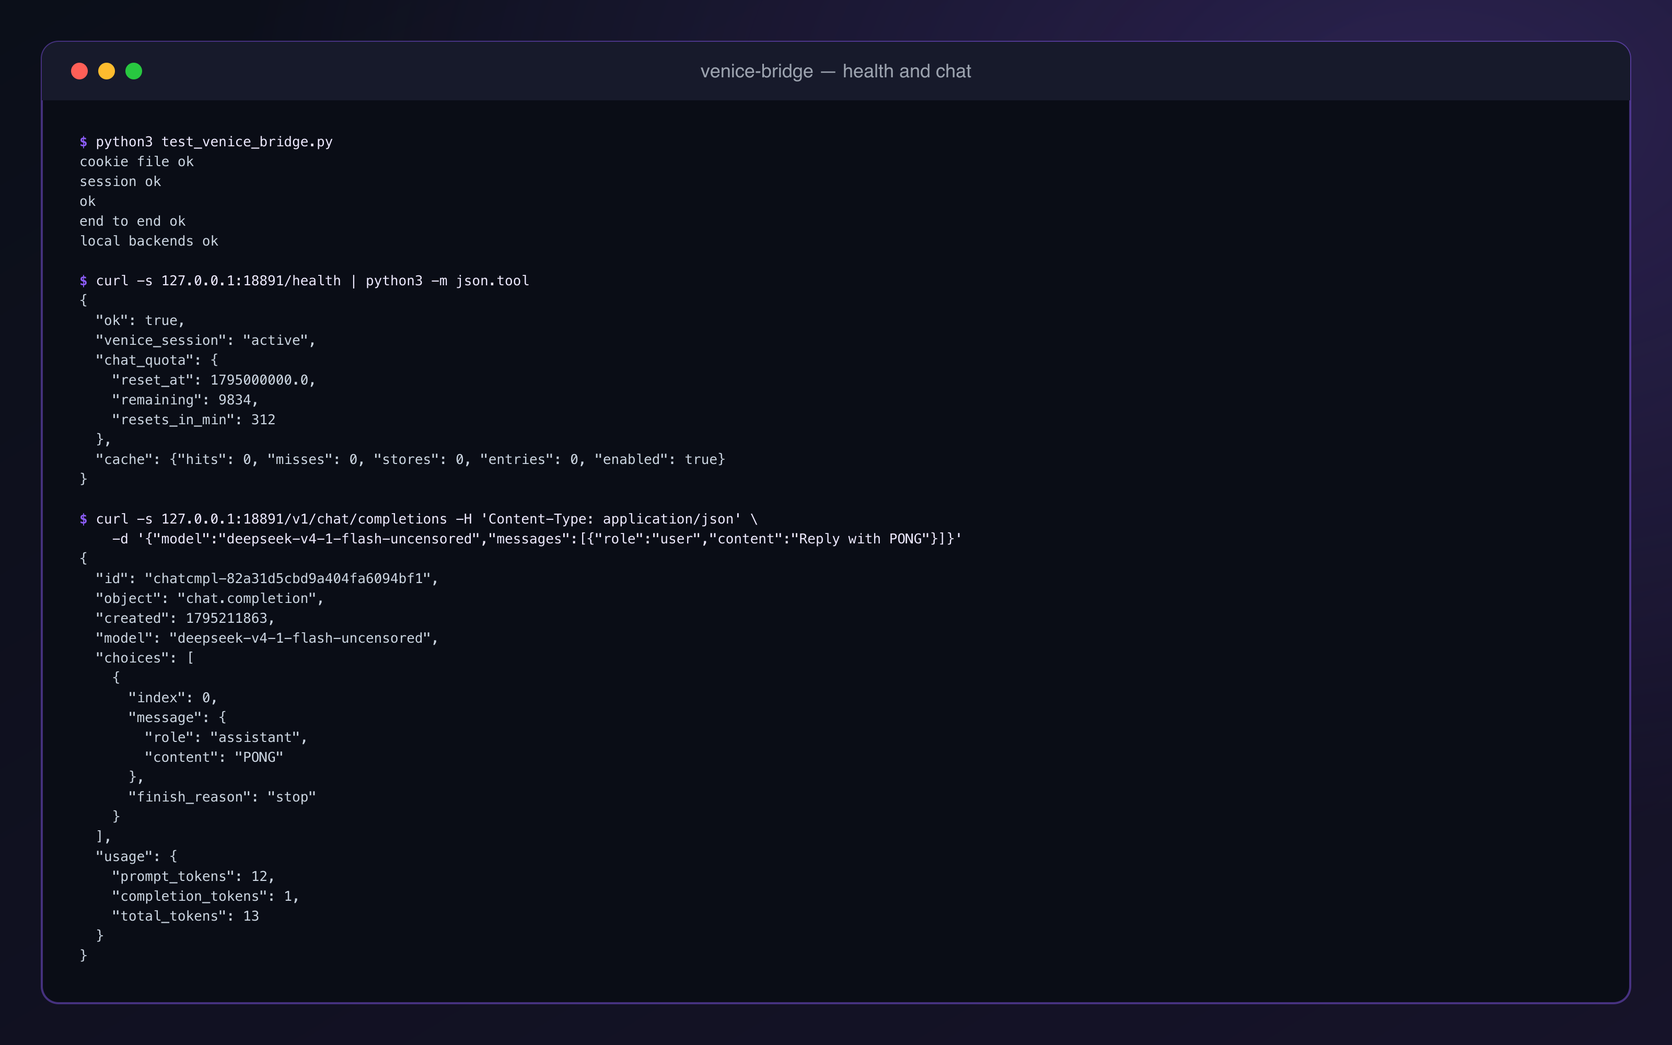
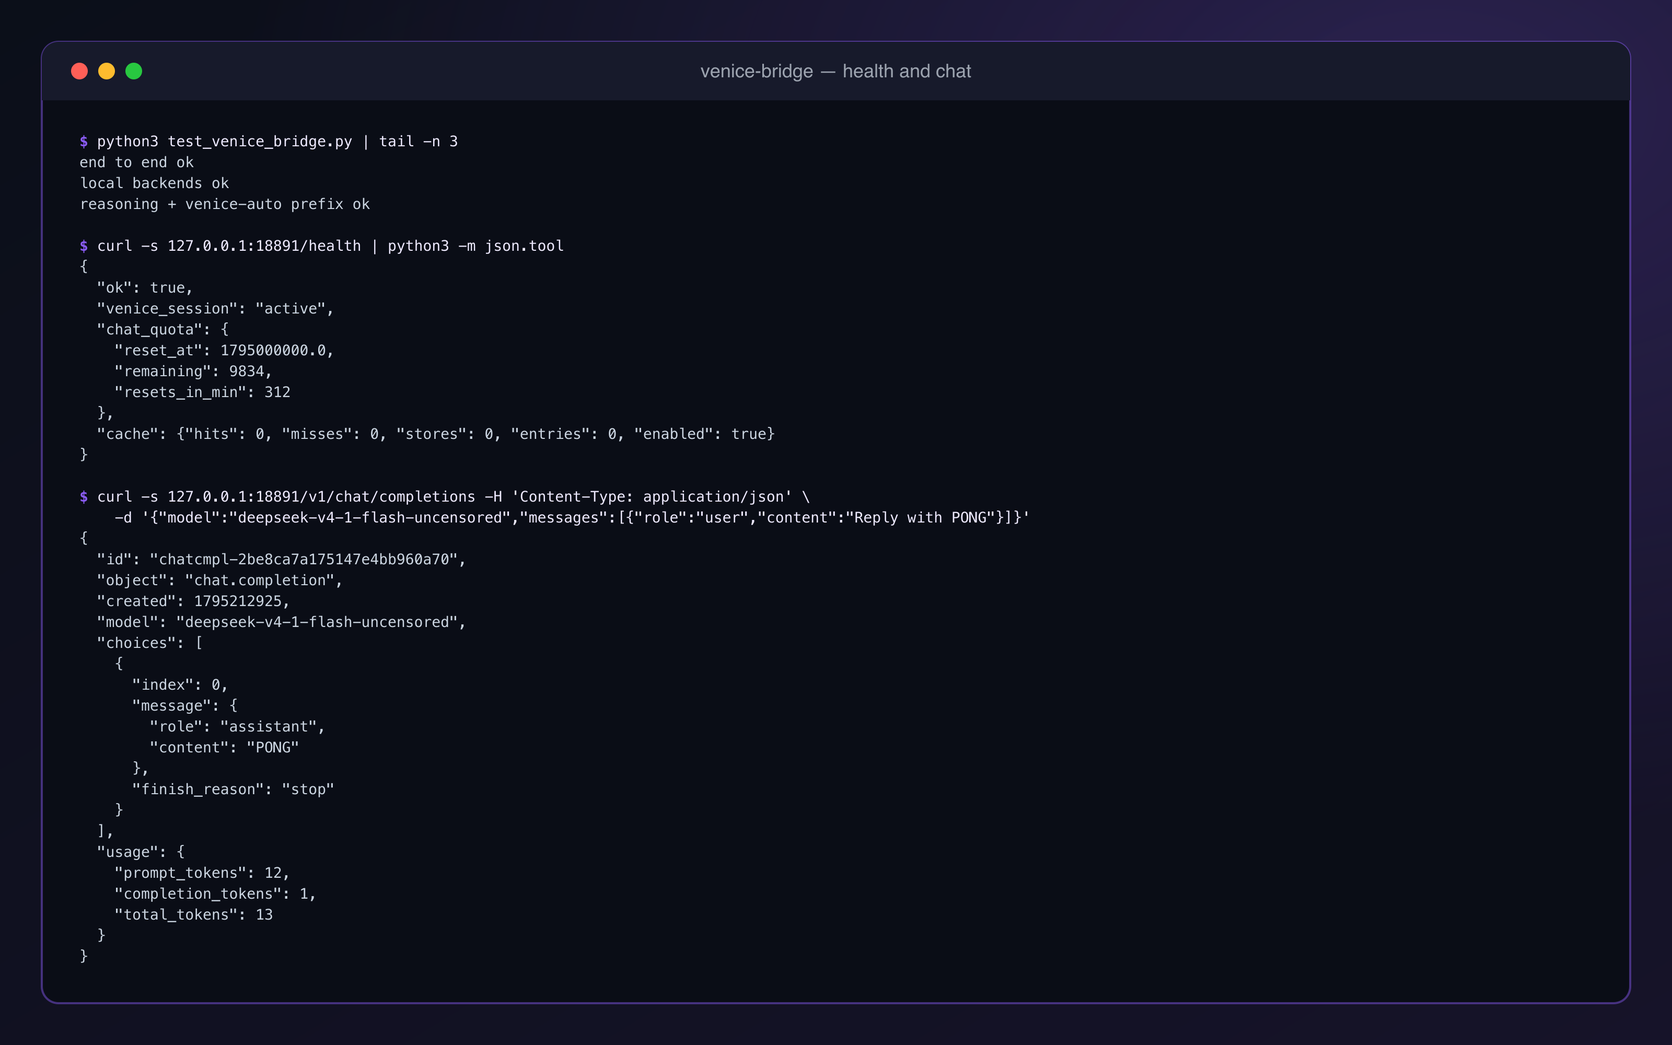
fix: local ids never fall back to Venice, no reasoning on tool requests, prefixed venice-auto
- adapter: a model id containing "/" (a local backend/model) is passed through unchanged, so a local model
  asked from Claude Code or Codex reaches its backend or fails with 502 instead of going to Venice
- bridge: reasoning_effort no longer turns reasoning on when the request declares tools (avoids the
  reasoning_content HTTP 400 in agent loops)
- bridge: venice-bridge/venice-auto resolves like venice-auto
- tests for all three; docs, screenshots and llms-full updated

diff --git a/docs/index.html b/docs/index.html
@@ -450,8 +450,8 @@ python3 venice_bridge.py --host 127.0.0.1 --port 18891</code></pre>
       <h3>4. Check it</h3>
       <pre><code>curl -s http://127.0.0.1:18891/health</code></pre>
       <p>A working login answers <code>{"ok": true, "venice_session": "active", "chat_quota": {...}}</code> with the remaining web chat quota. An offline self-check needs no network:</p>
-      <pre><code>python3 test_venice_bridge.py     <span class="c"># prints: cookie file ok, session ok, ok, end to end ok, local backends ok</span>
-python3 test_venice_adapters.py   <span class="c"># prints: messages ok, responses ok</span></code></pre>
+      <pre><code>python3 test_venice_bridge.py     <span class="c"># prints: cookie file ok, session ok, ok, end to end ok, local backends ok, reasoning + venice-auto prefix ok</span>
+python3 test_venice_adapters.py   <span class="c"># prints: messages ok, pick_model ok, responses ok</span></code></pre>
       <p>See <a href="#tests">Tests</a> for what they cover.</p>
 
       <h3>5. Add the provider to OpenCode</h3>
@@ -524,7 +524,7 @@ VENICE_CLAUDE_SKIP_PERMS=0 claude-venice               <span class="c"># keep th
       <h2>Codex CLI</h2>
       <p>Codex CLI talks to the adapter's <code>/v1/responses</code>. The provider is passed on the command line, so nothing is written to <code>~/.codex</code>:</p>
       <pre><code>VB_KEY=local codex exec --skip-git-repo-check -c 'model_providers.vb={name="vb",base_url="http://127.0.0.1:18892/v1",wire_api="responses",env_key="VB_KEY"}' -c model_provider=vb -m deepseek-v4-1-flash-uncensored "&lt;task&gt;"</code></pre>
-      <p>Measured with Codex CLI 0.163.0: it ran <code>exec_command</code> and answered. Limits: Codex's namespace tools (MCP servers, multi-agent) and its built-in <code>web_search</code> do not pass through. A model id the bridge does not list (for example a <code>gpt-...</code> id) is replaced by the adapter's default model (<code>VENICE_ADAPTER_MODEL</code>).</p>
+      <p>Measured with Codex CLI 0.163.0: it ran <code>exec_command</code> and answered. Limits: Codex's namespace tools (MCP servers, multi-agent) and its built-in <code>web_search</code> do not pass through. A model id the bridge does not list (for example a <code>gpt-...</code> id) is replaced by the adapter's default model (<code>VENICE_ADAPTER_MODEL</code>); an id with a <code>/</code> (a local <code>backend/model</code>) is passed through and never falls back to Venice.</p>
     </section>
 
     <section id="local-models">
@@ -590,7 +590,7 @@ claude-venice -m venice-auto               # works through the adapter, because 
         </tbody>
       </table></div>
       <p>The chain of thought comes back as OpenAI <code>reasoning_content</code>: a field on the message (non-stream) and <code>delta.reasoning_content</code> chunks (stream), sent before the normal <code>content</code>. On a thinking turn the bridge also lets Venice include its own system prompt, as the official web client does; without it the chat route returns no reasoning.</p>
-      <p>With tools in the request, <code>:think</code> and <code>VENICE_REASONING=1</code> are ignored, because a reasoning turn makes the model expect its <code>reasoning_content</code> passed back on the next turn, which coding agents do not do (HTTP 400). OpenCode, Claude Code and Codex always send tools, so <code>:think</code> has no effect in their agent loops; it is for plain chat and scripts. A <code>reasoning_effort</code> above <code>low</code> makes no thinking turn there either, but it still sets Venice's reasoning switch on the request, so leave it unset in agent loops. The adapter does not forward a reasoning effort.</p>
+      <p>With tools in the request, <code>:think</code> and <code>VENICE_REASONING=1</code> are ignored, because a reasoning turn makes the model expect its <code>reasoning_content</code> passed back on the next turn, which coding agents do not do (HTTP 400). OpenCode, Claude Code and Codex always send tools, so <code>:think</code> has no effect in their agent loops; it is for plain chat and scripts. The same holds for <code>reasoning_effort</code>: with tools in the request it is ignored and nothing about reasoning is sent to Venice. The adapter does not forward a reasoning effort.</p>
       <pre><code>curl -s http://127.0.0.1:18891/v1/chat/completions -H 'Content-Type: application/json' \
   -d '{"model":"deepseek-v4-1-flash-uncensored:think","messages":[{"role":"user","content":"Is 1001 prime?"}]}'</code></pre>
     </section>
@@ -691,7 +691,7 @@ claude-venice -m venice-auto               # works through the adapter, because 
       </table></div>
 
       <h3 id="sampling">Settings sent to Venice</h3>
-      <p>On the plain chat route, <code>temperature</code> and <code>top_p</code> are forwarded when the client sets them; otherwise Venice's own defaults apply. <code>max_tokens</code> is ignored by the route. Reasoning is off by default. A thinking turn is made only when asked for (<code>:think</code>, <code>VENICE_REASONING=1</code> or <code>reasoning_effort</code> <code>medium</code> / <code>high</code>) and only when the request declares no tools (see <a href="#reasoning">Reasoning</a>), because reasoning models want <code>reasoning_content</code> passed back on tool turns, which most clients do not do, and Venice then answers HTTP 400. Leave <code>reasoning_effort</code> unset in agent loops. Always sent: large-context chat on. Venice's own system prompt is off, except on a thinking turn.</p>
+      <p>On the plain chat route, <code>temperature</code> and <code>top_p</code> are forwarded when the client sets them; otherwise Venice's own defaults apply. <code>max_tokens</code> is ignored by the route. Reasoning is off by default. A thinking turn is made only when asked for (<code>:think</code>, <code>VENICE_REASONING=1</code> or <code>reasoning_effort</code> <code>medium</code> / <code>high</code>) and only when the request declares no tools (see <a href="#reasoning">Reasoning</a>), because reasoning models want <code>reasoning_content</code> passed back on tool turns, which most clients do not do (HTTP 400), so a request with tools never gets reasoning, whatever it asks for. Always sent: large-context chat on. Venice's own system prompt is off, except on a thinking turn.</p>
 
       <h3 id="routes">Routes</h3>
       <p>Routes: <code>VENICE_BRIDGE_ROUTE</code> is <code>auto</code> (default), <code>chat</code> or <code>agent</code>. The chat route is the default path because Venice runs no agent loop there and gives the model no tools of its own, so nothing collides with the client's tools and no call is swallowed.</p>
@@ -895,10 +895,12 @@ curl -s http://127.0.0.1:18892/v1/messages -H 'Content-Type: application/json' \
 session ok
 ok
 end to end ok
-local backends ok</code></pre>
+local backends ok
+reasoning + venice-auto prefix ok</code></pre>
       <h3>2. Adapter</h3>
       <pre><code>python3 test_venice_adapters.py</code></pre>
       <pre><code>messages ok
+pick_model ok
 responses ok</code></pre>
       <h3>3. Live check (both processes running)</h3>
       <p>Not a self-check: it needs your login and spends no model request.</p>

diff --git a/test_venice_bridge.py b/test_venice_bridge.py
@@ -1128,6 +1128,29 @@ def local_backend_checks() -> None:
     print("local backends ok")
 
 
+def reasoning_auto_checks() -> None:
+    # Fix 2: reasoning must stay OFF on a tool turn, even with reasoning_effort high (400 trap otherwise).
+    tool = [{"type": "function", "function": {"name": "read"}}]
+    p, has = vb.openai_to_venice_chat({"model": "m", "reasoning_effort": "high",
+                                       "messages": [{"role": "user", "content": "hi"}], "tools": tool})
+    assert has is True and "_think" not in p and p["reasoningMode"] == "disabled"
+    chat = vb._to_chat_payload(p)
+    assert chat["reasoning"] is False and not any(t["content"].startswith("/think") for t in chat["prompt"])
+    # no tools + effort high still reasons
+    p2, _ = vb.openai_to_venice_chat({"model": "m", "reasoning_effort": "high", "messages": [{"role": "user", "content": "hi"}]})
+    assert p2.get("_think") is True and vb._to_chat_payload(p2)["reasoning"] is True
+
+    # Fix 3: venice-auto resolves even behind the OpenCode `venice-bridge/` provider prefix.
+    old_q = vb.VENICE.quota_until
+    vb.VENICE.quota_until = 0.0
+    try:
+        assert vb._resolve_auto("venice-bridge/venice-auto") == "deepseek-v4-1-flash-uncensored"
+        assert vb._resolve_auto("venice-bridge/venice-auto:think") == "deepseek-v4-1-flash-uncensored:think"
+    finally:
+        vb.VENICE.quota_until = old_q
+    print("reasoning + venice-auto prefix ok")
+
+
 if __name__ == "__main__":
     cookie_file_checks()
     try:
@@ -1135,5 +1158,6 @@ if __name__ == "__main__":
         main()
         end_to_end()
         local_backend_checks()
+        reasoning_auto_checks()
     finally:
         shutil.rmtree(STATE_DIR, ignore_errors=True)

diff --git a/venice_bridge.py b/venice_bridge.py
@@ -820,7 +820,9 @@ def openai_to_venice_chat(body: Dict[str, Any]) -> Tuple[Dict[str, Any], bool]:
         "messages": prompt,
         "tools": [],  # Venice server tools; OpenCode's tools travel in the system prompt instead
         "clientTools": [],
-        "reasoningMode": "disabled" if effort in (None, "none", "minimal", "low") else "enabled",
+        # reasoning only on a no-tools turn (a reasoning turn wants reasoning_content passed back -> 400 on
+        # a tool call); _think already encodes this, and _to_chat_payload also reads reasoningMode, so gate both.
+        "reasoningMode": "enabled" if (effort in ("medium", "high") and not has_tools) else "disabled",
     }  # max_tokens is ignored by the route
     # temperature / top_p ARE honoured by the plain chat route (the official web client sends them,
     # venice.ai-normalChat.har); _to_chat_payload forwards them. Pass only what the client set.
@@ -1901,6 +1903,8 @@ DEFAULT_AUTO_MODELS = "deepseek-v4-1-flash-uncensored,ollama/qwen3:8b"
 
 def _resolve_auto(model: str) -> str:
     """Resolve `venice-auto` (optionally `venice-auto:think`/`:web`) to a concrete model id."""
+    if model.startswith("venice-bridge/"):  # OpenCode sends the provider prefix; strip it before matching
+        model = model.split("/", 1)[1]
     base, _, suffix = model.partition(":")
     if base != "venice-auto":
         return model

diff --git a/test_venice_adapters.py b/test_venice_adapters.py
@@ -155,6 +155,11 @@ def main():
         {"type": "custom_tool_call_output", "call_id": "c9", "output": {"content": "ok"}}]})
     assert chat["messages"][0]["tool_calls"][0]["function"] == {"name": "apply_patch", "arguments": "{\"input\": \"P\"}"}
     assert chat["messages"][1] == {"role": "tool", "tool_call_id": "c9", "content": "ok"}
+    # ---- _pick_model: a local backend id (contains "/") passes through, never silently the default Venice model
+    assert va._pick_model("ollama/qwen3:8b") == "ollama/qwen3:8b"      # upstream lists only ["m1"]; must NOT become m1
+    assert va._pick_model("venice-bridge/ollama/x") == "venice-bridge/ollama/x"
+    assert va._pick_model("m1") == "m1" and va._pick_model("claude-x") == "m1"  # known passes, unknown -> default
+    print("pick_model ok")
     print("responses ok")
 
 

diff --git a/scripts/make_screenshots.py b/scripts/make_screenshots.py
@@ -147,8 +147,8 @@ def pretty(obj, width):
 def screens(g, cols):
     url = BRIDGE_PORT_LABEL
     hdr = "-H 'Content-Type: application/json'"
-    s1 = [[("p", "$ "), ("c", "python3 test_venice_bridge.py")]]
-    s1 += [[("o", l)] for l in g["selfcheck"]]
+    s1 = [[("p", "$ "), ("c", "python3 test_venice_bridge.py | tail -n 3")]]
+    s1 += [[("o", l)] for l in g["selfcheck"][-3:]]
     s1 += [[], [("p", "$ "), ("c", "curl -s %s/health | python3 -m json.tool" % url)]]
     health = dict(g["health"])
     cache = health.pop("cache", None)  # shown on one line so the screen stays readable

diff --git a/venice_adapters.py b/venice_adapters.py
@@ -56,6 +56,8 @@ def _pick_model(asked: Any) -> str:
     # keep a per-request web suffix (deepseek-...:web / :xsearch) when the BASE model is valid, so the
     # bridge can parse it; a bare valid id passes through; anything else falls back to the default.
     if isinstance(asked, str):
+        if "/" in asked.split(":")[0]:
+            return asked  # a local backend id (ollama/...): let the bridge route it or 502, never silently Venice
         if asked in _MODELS[1]:
             return asked
         if asked.split(":")[0] in _MODELS[1]:

diff --git a/README.md b/README.md
@@ -186,8 +186,8 @@ What the launcher does:
   install, its login and its settings are not touched.
 - Unsets `ANTHROPIC_API_KEY`, sets `ANTHROPIC_BASE_URL=http://127.0.0.1:18892` and a filler
   `ANTHROPIC_AUTH_TOKEN`, and points `ANTHROPIC_MODEL` and the opus / sonnet / haiku default-model variables at
-  the chosen Venice id. Any other model id that the bridge does not list is replaced by the adapter with
-  `VENICE_ADAPTER_MODEL`.
+  the chosen Venice id. A model id that the bridge does not list (such as `claude-...`) is replaced by the
+  adapter with `VENICE_ADAPTER_MODEL`; an id with a `/` (a local `backend/model`) is passed through as is.
 - Checks before it starts: both `/health` endpoints answer and the Venice session is active. It warns when fewer
   than 500 requests are left in the web quota.
 - The ports `18891` and `18892` are fixed in the script. If you run either process on another port, edit the
@@ -243,10 +243,8 @@ off. The file is read on every request, so edits apply without a restart.
   are still listed.
 - A request to the bridge for a local-prefixed model whose backend is down answers `502` (`local_backend_error`)
   and never falls through to Venice.
-- Through the adapter it is different: the adapter replaces a model id that is not in the bridge's model list
-  (refreshed every 5 minutes) with `VENICE_ADAPTER_MODEL`, a Venice model. If the backend was down when the list
-  was read, a request for a local model through Claude Code or Codex can go to Venice instead. Start the backend
-  first, or restart the adapter after starting it.
+- The same holds through the adapter: it passes any id that contains a `/` straight to the bridge, so a local
+  model asked from Claude Code or Codex reaches its backend or fails with `502`; it is never sent to Venice.
 
 ## Model list and venice-auto
 
@@ -312,9 +310,8 @@ no reasoning.
 With tools in the request, `:think` and `VENICE_REASONING=1` are ignored, because a reasoning turn makes the
 model expect its `reasoning_content` passed back on the next turn, which coding agents do not do (HTTP 400).
 OpenCode, Claude Code and Codex always send tools, so `:think` has no effect in their agent loops; it is for plain
-chat and scripts. A `reasoning_effort` above `low` makes no thinking turn there either, but it still sets Venice's
-reasoning switch on the request, so leave it unset in agent loops. The adapter does not forward a reasoning
-effort.
+chat and scripts. The same holds for `reasoning_effort`: with tools in the request it is ignored and nothing
+about reasoning is sent to Venice. The adapter does not forward a reasoning effort.
 
 ## Response cache
 
@@ -418,7 +415,7 @@ forwarded; Venice's own `get_attachment` / `view_media` run there with made-up i
 - Reasoning is **off** by default. A thinking turn is made only when asked for (`:think`, `VENICE_REASONING=1`
   or `reasoning_effort` `medium` / `high`) and only when the request declares no tools; see
   [Reasoning](#reasoning-opt-in). Reasoning models want their `reasoning_content` passed back on tool turns, which
-  most clients do not do, and that ends in HTTP 400, so leave `reasoning_effort` unset in agent loops. The adapter
+  most clients do not do (HTTP 400), so a request with tools never gets reasoning, whatever it asks for. The adapter
   does not forward `temperature`, `top_p` or a reasoning effort, so Claude Code and Codex always run with
   reasoning off.
 - Always sent: large-context chat on. Venice's own system prompt is off, except on a thinking turn.
@@ -617,9 +614,7 @@ work, check what it produces, and do not use it for high-stakes changes.
 | `claude-venice`: "Venice web session is not active" | The login cookie expired. | Save a fresh cookie as in [Quick start](#1-save-your-veniceai-login-cookie), then `POST /reload`. |
 | Claude Code: "Auto mode could not evaluate this action and is blocking it for safety" | Auto mode's safety classifier needs a model that Venice's fast models cannot replace. | Leave the launcher's default (`VENICE_CLAUDE_SKIP_PERMS=1`), or pass a `--permission-mode <mode>` other than `auto` to be asked before tools run. |
 | `502` with `local_backend_error` "Local backend '…' (…) did not answer" | The local server for that model prefix is not running, or its URL is wrong. | Start it; check `~/.config/venice-bridge/backends.json`. |
-| A local model asked through Claude Code or Codex is answered by a Venice model | The local backend was down when the adapter last read the model list, so the adapter used `VENICE_ADAPTER_MODEL`. | Start the backend, then restart the adapter (or wait up to 5 minutes). |
 | Log line "backends.json is not valid JSON; using the default backends" | A syntax error in the backends file. | Fix the JSON; it is read again on the next request. |
-| `400` on a tool turn after setting a reasoning effort | Reasoning models want `reasoning_content` passed back, which most clients do not send. | Leave reasoning effort unset (or `low`). |
 | Codex cannot use MCP servers, multi-agent tools or `web_search` | Namespace tools and Codex's built-in `web_search` do not pass through the adapter. | Use function tools only, or the bridge's opt-in [web search](#web-search-opt-in). |
 
 The bridge logs to stderr (or to `venice_bridge.log` under the launchd template). Lines start with
@@ -729,6 +724,7 @@ session ok
 ok
 end to end ok
 local backends ok
+reasoning + venice-auto prefix ok
 ```
 
 ```bash
@@ -737,6 +733,7 @@ python3 test_venice_adapters.py
 
 ```text
 messages ok
+pick_model ok
 responses ok
 ```
 

diff --git a/AGENTS.md b/AGENTS.md
@@ -111,8 +111,7 @@ request declares no tools. The chain of thought comes back as `reasoning_content
 `delta.reasoning_content` chunks before `content` when streaming). Chat route only. With tools, `:think` and
 `VENICE_REASONING` are ignored: reasoning models want `reasoning_content` passed back on the next tool turn, which
 agents do not do (HTTP 400). So `:think` has no effect in OpenCode / Claude Code / Codex agent loops. A
-`reasoning_effort` above `low` makes no thinking turn with tools but still sets Venice's reasoning switch; do not
-set it there.
+`reasoning_effort` is ignored with tools too: nothing about reasoning reaches Venice on a tool request.
 
 `venice-auto` (virtual model) resolves to the first Venice id in `VENICE_AUTO_MODELS`; while the bridge knows the
 web quota is used up, to the first local `<backend>/<model>` entry, until the reset Venice reports. The request
@@ -134,10 +133,10 @@ over-quota state. Use: `opencode -m venice-bridge/venice-auto` (list it in the O
 
 The adapter forwards tool declarations, tool calls and results, `max_tokens` (`max_output_tokens` for Responses)
 and the stream flag. It does not forward `temperature`, `top_p` or a reasoning effort. Freeform Responses tools
-(such as `apply_patch`) become a function with one `input` string. A model id the upstream does not list (checked
-against a model list refreshed every 5 minutes) is replaced with `VENICE_ADAPTER_MODEL`; a `:web` / `:xsearch`
-suffix is kept when the base id is listed. Consequence: a local-prefixed model whose backend was down at the last
-list read goes to the Venice default model instead of failing. Images and documents are replaced by a short
+(such as `apply_patch`) become a function with one `input` string. An id that contains a `/` (a local `backend/model`, or
+`venice-bridge/...`) is passed through unchanged, so a local model never falls back to Venice; any other id the
+upstream does not list (checked against a model list refreshed every 5 minutes) is replaced with
+`VENICE_ADAPTER_MODEL`; a `:web` / `:xsearch` suffix is kept when the base id is listed. Images and documents are replaced by a short
 "omitted" note. `usage` reports `cached_tokens: 0`.
 
 ## Environment variables
@@ -200,10 +199,12 @@ session ok
 ok
 end to end ok
 local backends ok
+reasoning + venice-auto prefix ok
 ```
 
 ```text
 messages ok
+pick_model ok
 responses ok
 ```
 
@@ -269,8 +270,6 @@ Live check of a running setup: `claude-venice --quota` prints `Venice web quota 
 | Model claims its tools are unavailable / "Tool not found" | The request used the agent route (check `route=` in the log), where Venice swallows native tool calls. Use `VENICE_BRIDGE_ROUTE=auto` or `chat`, or a model that exists on the chat route; in an existing conversation tell the model its tools work now, or start a new session. |
 | `502` "Venice answered HTTP 400: … modelNotFound" with `VENICE_BRIDGE_ROUTE=chat` | The model exists only on the agent route. Use `auto`. |
 | `502` `local_backend_error` | The local server for that prefix is down or misconfigured in `backends.json`. Start it; do not retry against Venice. |
-| Local model through the adapter answered by a Venice model | The backend was down at the adapter's last model-list read. Start the backend and restart the adapter. |
-| `400` on a tool turn with a reasoning effort set | Leave `reasoning_effort` unset or `low`. |
 | `claude-venice` exits "… is down" / "session is not active" | Start the bridge and adapter / ask the user for a fresh cookie. |
 | Claude Code "Auto mode could not evaluate this action" | Auto mode cannot work with these models; use the launcher default or a `--permission-mode <mode>` other than `auto`. |
 | `Address already in use` on start | A process is already running on that port; check `/health` instead of starting another. |

diff --git a/GLOBAL_AGENT_RULE.md b/GLOBAL_AGENT_RULE.md
@@ -38,9 +38,9 @@ run `curl -s -X POST http://127.0.0.1:18891/reload`.
   the repo README).
 - Local models: model id `ollama/<model>` or `lmstudio/<model>` goes to that local server, with no Venice quota.
 - Venice web search is off; add `:web` to a model id to turn it on for one request.
-- Reasoning is off; add `:think` to a model id for one request. It is ignored when tools are declared, so it
-  helps plain chat and scripts, not agent loops; the chain of thought comes back as `reasoning_content`. Do not
-  set `reasoning_effort` in an agent loop.
+- Reasoning is off; add `:think` to a model id for one request. It (and `reasoning_effort`) is ignored when tools
+  are declared, so it helps plain chat and scripts, not agent loops; the chain of thought comes back as
+  `reasoning_content`.
 - `/v1/models` lists only models the web subscription covers (no credit or `e2ee-*` models); a hidden id can
   still be requested.
 - Model `venice-auto`: a Venice model normally, a local model (default `ollama/qwen3:8b`) once the daily quota is
